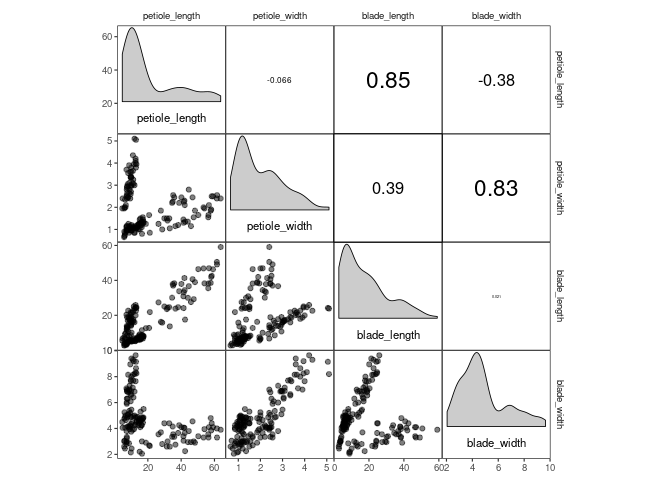
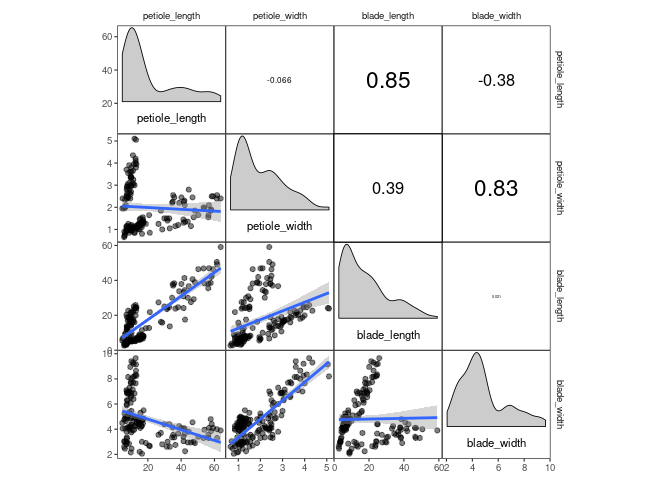
Update README with figure + table for corrmorant layers

diff --git a/README.md b/README.md
@@ -53,8 +53,6 @@ Afterwards, the package can be loaded regularly via `library()`:
 library(corrmorant)
 ```
 
-    ## Loading required package: ggplot2
-
 ## Simple plots with corrmorant()
 
 The `corrmorant()` function is a simple wrapper function around the more
@@ -73,11 +71,12 @@ corrmorant(drosera, style = "dark")
 corrmorant(drosera, style = "blue_red")
 ```
 
-![](README_files/figure-gfm/unnamed-chunk-4-1.png)<!-- --> It obvious
-that this illustration is not optimal because the three different
-*Drosera* species have remarkably different leaf morphologies. More
-complex plots (e.g. with different correlations for different groups)
-are possible with `ggcorrm()`.
+<img src="vignettes/corrmorant_examples.png"/>
+
+It obvious that this illustration is not optimal because the three
+different *Drosera* species have remarkably different leaf morphologies.
+More complex plots (e.g. with different correlations for different
+groups) are possible with `ggcorrm()`.
 
 ## Basic usage of ggcorrm()
 
@@ -107,7 +106,7 @@ p1 <- ggcorrm(drosera) +
 p1
 ```
 
-![](README_files/figure-gfm/unnamed-chunk-5-1.png)<!-- -->
+![](README_files/figure-gfm/unnamed-chunk-4-1.png)<!-- -->
 
 If you want, you can add additional ggplot2 layers, using the
 appropriate corrmorant selectors to restrict them to the appropriate set
@@ -120,7 +119,7 @@ p1 + lotri(geom_smooth(method = "lm"))
 
     ## `geom_smooth()` using formula 'y ~ x'
 
-![](README_files/figure-gfm/unnamed-chunk-6-1.png)<!-- -->
+![](README_files/figure-gfm/unnamed-chunk-5-1.png)<!-- -->
 
 The horrific fit of these linear regressions results from the fact that
 the `drosera` dataset contains data from three different sundew species.
@@ -138,7 +137,23 @@ ggcorrm(drosera, mapping = aes(col = species, fill = species)) +
   dia_density(lower = 0.3, color = 1)
 ```
 
-![](README_files/figure-gfm/unnamed-chunk-7-1.png)<!-- -->
+![](README_files/figure-gfm/unnamed-chunk-6-1.png)<!-- -->
+
+## Special corrmorant stats and geoms
+
+| Panels       | Name                                     | Description                                                     |
+| :----------- | :--------------------------------------- | :-------------------------------------------------------------- |
+| Diagonal     | `dia_names()`                            | display text labels for variable names on the plot diagonal     |
+|              | `dia_density()`                          | display density plots in diagonal panels                        |
+|              | `dia_histogram()`                        | display histograms in diagonal panels                           |
+|              | `dia_freqpoly()`                         | display frequency polygons in diagonal panels                   |
+| Off-diagonal | `lotri_corrtext()` `utri_corrtext()`     | place text labels indicating correlation strength               |
+|              | `lotri_funtext()` `utri_funtext()`       | create text labels with the output of user-definedfunctions     |
+|              | `lotri_heatmap()` `utri_heatmap()`       | add correlation heatmap                                         |
+|              | `lotri_heatpoint()` `utri_heatpoint()`   | add symbols whose size and color indicates correlation strength |
+|              | `lotri_heatcircle()` `utri_heatcircle()` | add circles whose area scales with correlation strength         |
+
+<img src="vignettes/corrmorant_funs.png" width=700/>
 
 ## Coloring data by correlation strength
 
@@ -167,7 +182,7 @@ ggcorrm(data1,
 
     ## `geom_smooth()` using formula 'y ~ x'
 
-![](README_files/figure-gfm/unnamed-chunk-8-1.png)<!-- -->
+![](README_files/figure-gfm/unnamed-chunk-7-1.png)<!-- -->
 
 ## Correlation heatmaps and more
 
@@ -189,7 +204,7 @@ ggcorrm(rescale = "by_sd") +
   scale_fill_corr() 
 ```
 
-![](README_files/figure-gfm/unnamed-chunk-9-1.png)<!-- -->
+![](README_files/figure-gfm/unnamed-chunk-8-1.png)<!-- -->
 
 With `lotri_/utri_heatpoint()`, you can scale the diameter of any
 character you want by correlation strength. And yes, you’re right, this
@@ -211,7 +226,7 @@ ggcorrm() +
     ## Some variables are highly skewed (abs(skew) > 1).
     ## Consider transformation for better display.
 
-![](README_files/figure-gfm/unnamed-chunk-10-1.png)<!-- -->
+![](README_files/figure-gfm/unnamed-chunk-9-1.png)<!-- -->
 
 ## Print output of arbitrary functions of the data
 
@@ -236,7 +251,7 @@ ggcorrm(drosera, mapping = aes(col = species, fill = species)) +
   dia_names(y_pos = 0.15)
 ```
 
-![](README_files/figure-gfm/unnamed-chunk-11-1.png)<!-- -->
+![](README_files/figure-gfm/unnamed-chunk-10-1.png)<!-- -->
 
 Besides using a two-parameter formula, `stat_funtext()`, the stat
 underlying `lotri/utri_funtext()`, also accepts rlang style lambda
@@ -255,4 +270,4 @@ ggcorrm(drosera, aes(col = .corr), rescale = "as_is") +
   scale_color_corr()
 ```
 
-![](README_files/figure-gfm/unnamed-chunk-12-1.png)<!-- -->
+![](README_files/figure-gfm/unnamed-chunk-11-1.png)<!-- -->
